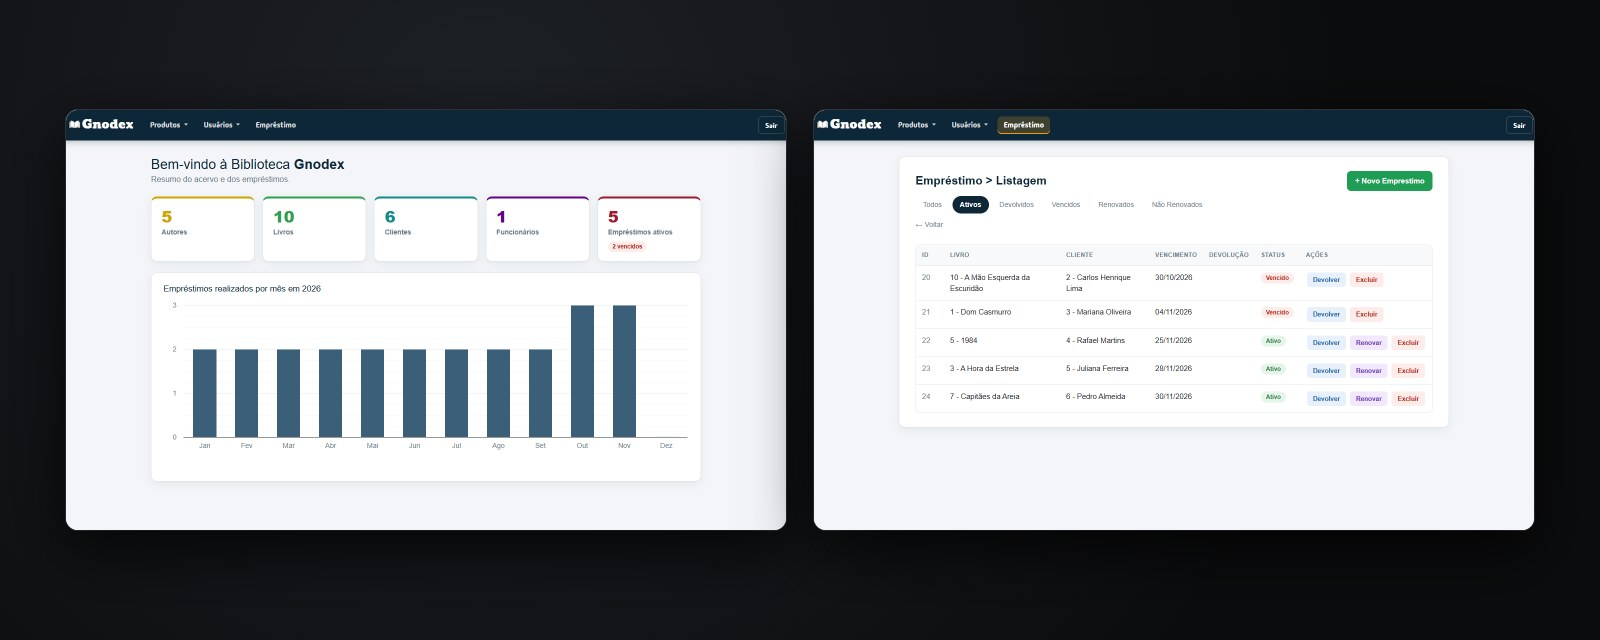
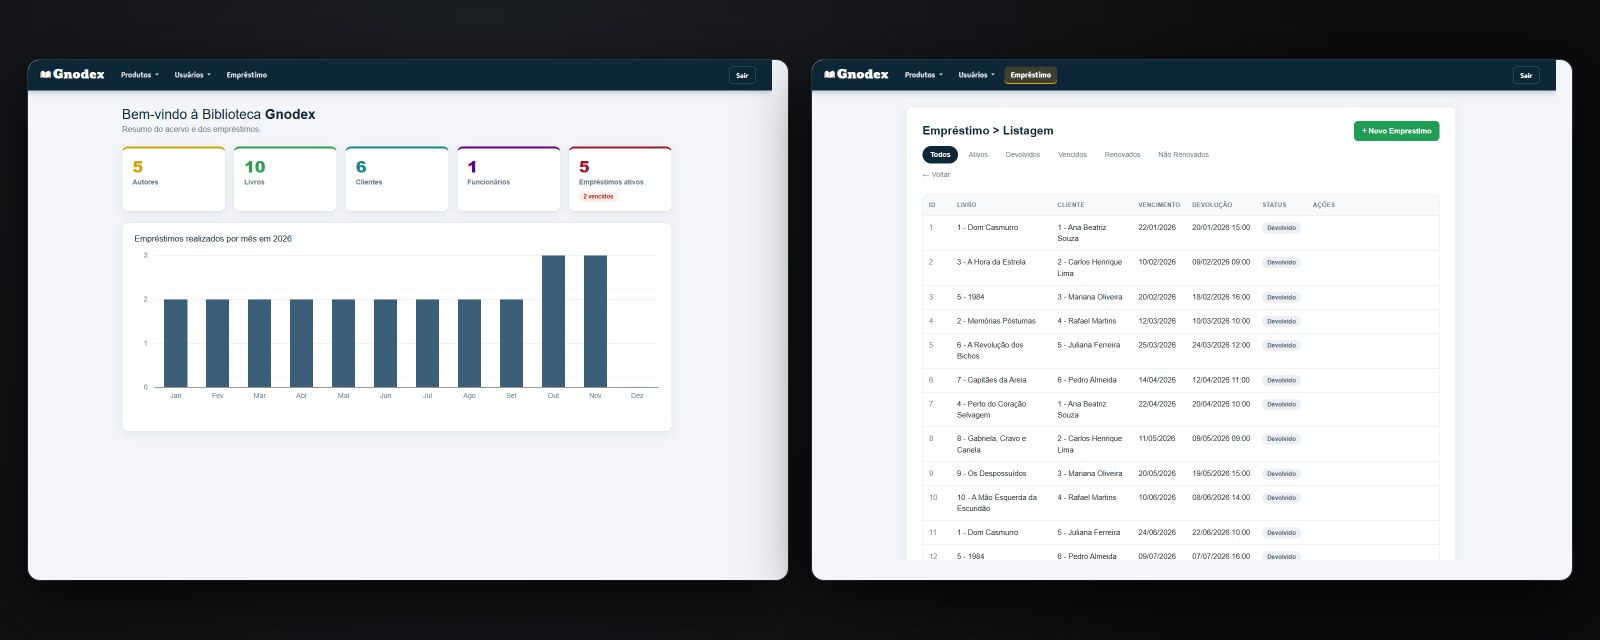
Ajusta grid de projetos e refaz imagens do SIF e da biblioteca

Changed region(s): [[0.0, 0.0938, 1.0, 0.9062], [0.3125, 0.3438, 0.3438, 0.375]]

diff --git a/src/components/ProjectsSection.vue b/src/components/ProjectsSection.vue
@@ -44,11 +44,13 @@ import { content } from '../data/content.js'
 <style scoped>
 .grid {
   display: grid;
-  grid-template-columns: repeat(3, 1fr);
+  grid-template-columns: repeat(6, 1fr);
   gap: 22px;
 }
 
+/* cards comuns dividem a linha em duas metades; os destacados ocupam a linha inteira */
 .project {
+  grid-column: span 3;
   overflow: hidden;
   display: flex;
   flex-direction: column;
@@ -56,7 +58,8 @@ import { content } from '../data/content.js'
 
 .thumb {
   width: 100%;
-  height: 150px;
+  aspect-ratio: 5 / 2; /* mesmo formato das capturas (1600x640), sem cortar */
+  height: auto;
   object-fit: cover;
   border-bottom: 1px solid var(--border);
   filter: grayscale(0.4);
@@ -157,6 +160,11 @@ dd.result {
 @media (max-width: 960px) {
   .grid {
     grid-template-columns: 1fr;
+  }
+
+  .project,
+  .project.featured {
+    grid-column: 1 / -1;
   }
 
   .project.featured {
